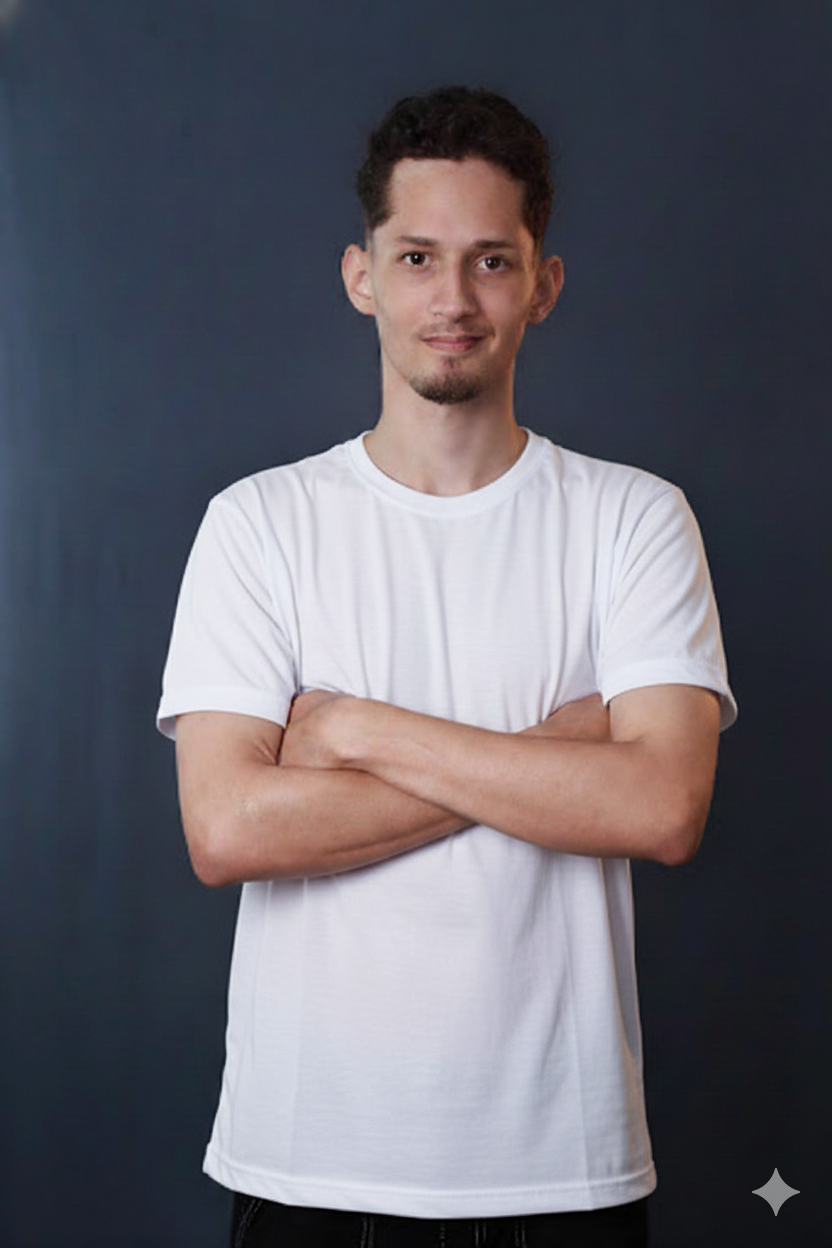
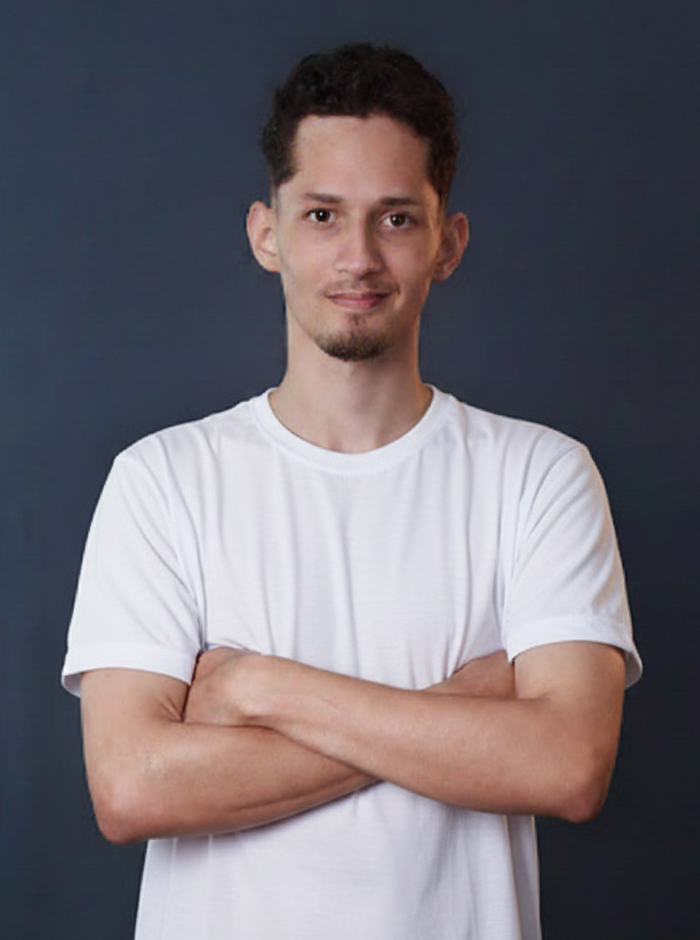
Começo da responsabilidade, width ajustada

diff --git a/css/estilo.css b/css/estilo.css
@@ -26,7 +26,14 @@ body {
     padding: 40px;
     width: 100%;
 }
+@media (max-width: 768px) {
+    .content {
+        margin-top: 70px;
+        padding: 0;
+        margin-left: 10px;
+    }
 
+}
 /* ==========================================
    HOME SECTION
    ========================================== */
@@ -35,17 +42,28 @@ body {
     margin-top: 0px;
     display: flex;
     align-items: center;
-    justify-content: space-between;
+    flex-direction: column;
     gap: 50px;
     min-height: 80vh;
-
-
 }
+@media (max-width: 768px) { 
+    .home-container {
+        flex-direction: column;
+    }
+}
+
 
 .home-container .home-image {
     filter: grayscale(100%); /* Deixa a imagem em preto e branco */
     transition: filter 1.0s ease; /* Suaviza a transição */
 }
+
+@media (max-width: 768px) { 
+    .home-container .home-image {
+        filter: grayscale(0%);
+        
+    }
+ }
 
 .home-text-container {
     flex: 1;
@@ -88,6 +106,13 @@ body {
     font-size: 40px;
     font-weight: bolder;
 }
+@media (max-width: 768px) { 
+    .name-container {
+        width: 50px;
+        font-size: 40px;
+    }
+}
+
 .name-dot {
     color: #3fb950;
 }
@@ -108,6 +133,15 @@ body {
     font-weight: bold;
 }
 
+@media (max-width: 768px) { 
+    .eusou-funcao {
+        display: block;
+        width: 100%;
+    }
+}
+
+
+
 /* =====================
     Descricao
    ===================== */
@@ -116,6 +150,12 @@ body {
     padding-top: 10px;
 }
 
+@media (max-width: 768px) { 
+    .home-descricao {
+        display: block;
+        width: 100%;
+    }
+}
 
 /* =====================
     Botões home
@@ -123,8 +163,14 @@ body {
 
 .home-buttons-container {
     margin-top: 50px;
-
+    display: flex;
 }
+@media (max-width: 768px) { 
+    .home-text-container .home-buttons-container{
+        flex-direction: column;
+        width: 100%;
+    }
+} 
 
 .github-btn {
     padding: 15px;
@@ -174,7 +220,15 @@ body {
     width: 400px;
     border-radius: 10px;
     max-width: 450px; /* Evita que a foto fique gigante em telas grandes */
+
+    
 }
+@media (max-width:796px ) {
+    .home-foto-container {
+        width: 100%;
+    }
+}
+
 .foto-titulo-container {
     padding: 10px;
     border-bottom: 1px solid #30363d;
@@ -251,6 +305,12 @@ body {
     border-radius: 10px;
     background-color: #161b29;
 }
+
+@media (max-width: 768px) { 
+    .square-code-container {
+        width: 100%;
+    }
+}
 .square-code-titulo {
     padding: 10px;
     background-color: #161b22;
@@ -298,6 +358,7 @@ body {
 
     transition: border-color 0.3s ease, box-shadow 0.3s ease, background-color 0.3s ease;
 }
+
 .abs-text-green {
     font-size: 25px;
     font-weight: bolder;
@@ -321,7 +382,15 @@ body {
     justify-content: space-between;
     gap: 10px;
     
+
 }
+
+@media (max-width: 796px ) {
+    .about-container {
+        display: block;
+    }
+}
+
 .about-bonus {
     flex: 1;
     max-width: 50%;
@@ -331,6 +400,13 @@ body {
     grid-template-columns: repeat(2,1fr);
     gap: 15px;
 }
+
+@media (max-width: 796px ) {
+    .about-bonus-squares {
+        grid-template-columns: repeat(1, 1fr);
+    }
+}
+
 /* ==========================================
    Stack SECTION
    ========================================== */
@@ -483,7 +559,7 @@ body {
 
 .timeline-dot {
     position: absolute;
-    left: -52px; /* Ajuste esse valor até a bolinha cobrir a linha do container */
+    left: -52px; 
     top: 0;
     width: 20px;
     height: 20px;
@@ -515,6 +591,12 @@ body {
 .experience-commit-desc {
     width: 550px;
 }
+@media (max-width: 795px) {
+    .experience-commit-desc {
+        width: 100%;
+    }
+}
+
 .experience-commit-local-text {
     color:aqua;
     font-size: 18px;
@@ -545,6 +627,13 @@ body {
 }
 
 
+@media (max-width: 796px ) {
+    .contact-container {
+        flex-direction: column;
+    }
+ }
+
+
 .contact-options-square {
     padding: 20px 15px;
     height: 265px;
@@ -552,6 +641,12 @@ body {
     background-color: #161b29;
     border: 2px solid #30363d;
     border-radius: 10px;
+}
+
+@media (max-width: 796px ) { 
+    .contact-options-square {
+        width: 100%;
+    }
 }
 
 .contact-square-green-text {
@@ -576,6 +671,12 @@ body {
     border: 2px solid #30363d;
     border-radius: 10px;
 }
+@media (max-width: 796px ) { 
+    .contact-options-square-sendmessage {
+        width: 100%;
+    }
+}
+
 .contact-option-square:hover {
     background-color: #0d1117;
 }
@@ -645,3 +746,7 @@ body {
     box-shadow: 0 0 15px rgba(4, 252, 25, 0.4), inset 0 0 5px rgba(0, 255, 255, 0.2);
 
 }
+
+/* ==========================================
+   RESPONSIVIDADE
+   ========================================== */

diff --git a/index.html b/index.html
@@ -18,12 +18,12 @@
         </div>
         
         <ul class="navbar-itens">
-            <li><a href="#home"><span class="icon"><img src="imagem/home-simbol.png" alt=""></span> Home</a></li>
-            <li><a href="#about"><span class="icon"><img src="imagem/about-simbol.png" alt=""></span> Sobre</a></li>
-            <li><a href="#stack"><span class="icon"><img src="imagem/tecnologias-simbol.png" alt=""></span> stack</a></li>
-            <li><a href="#experience"><span class="icon"><img src="imagem/experience-simbol.png" alt=""></span> Experience</a></li>
-            <li><a href="#github"><span class="icon"><img src="imagem/projects-simbol.png" alt=""></span> GitHub</a></li>  
-            <li><a href="#contact"><span class="icon"> <img src="imagem/email-logo.png" alt=""></span> contact</a></li>
+            <li><a href="#home"><span class="icon"><img src="imagem/home-simbol.png" alt=""></span class="nav-text"> Home</a></li>
+            <li><a href="#about"><span class="icon"><img src="imagem/about-simbol.png" alt=""></span class="nav-text"> Sobre</a></li>
+            <li><a href="#stack"><span class="icon"><img src="imagem/tecnologias-simbol.png" alt=""></span class="nav-text"> stack</a></li>
+            <li><a href="#experience"><span class="icon"><img src="imagem/experience-simbol.png" alt=""></span class="nav-text"> Experience</a></li>
+            <li><a href="#github"><span class="icon"><img src="imagem/projects-simbol.png" alt=""></span class="nav-text"> GitHub</a></li>  
+            <li><a href="#contact"><span class="icon"> <img src="imagem/email-logo.png" alt=""></span class="nav-text"> contact</a></li>
         </ul>
 
         <div class="status">

diff --git a/css/sidebar.css b/css/sidebar.css
@@ -1,3 +1,4 @@
+
 .logo {
     width: 40px;
     border-radius: 50%;
@@ -71,3 +72,9 @@
     font-weight:bolder;
 }
 
+@media (max-width: 768px) {
+    
+    .sidebar {
+        display: none;
+    }
+}
